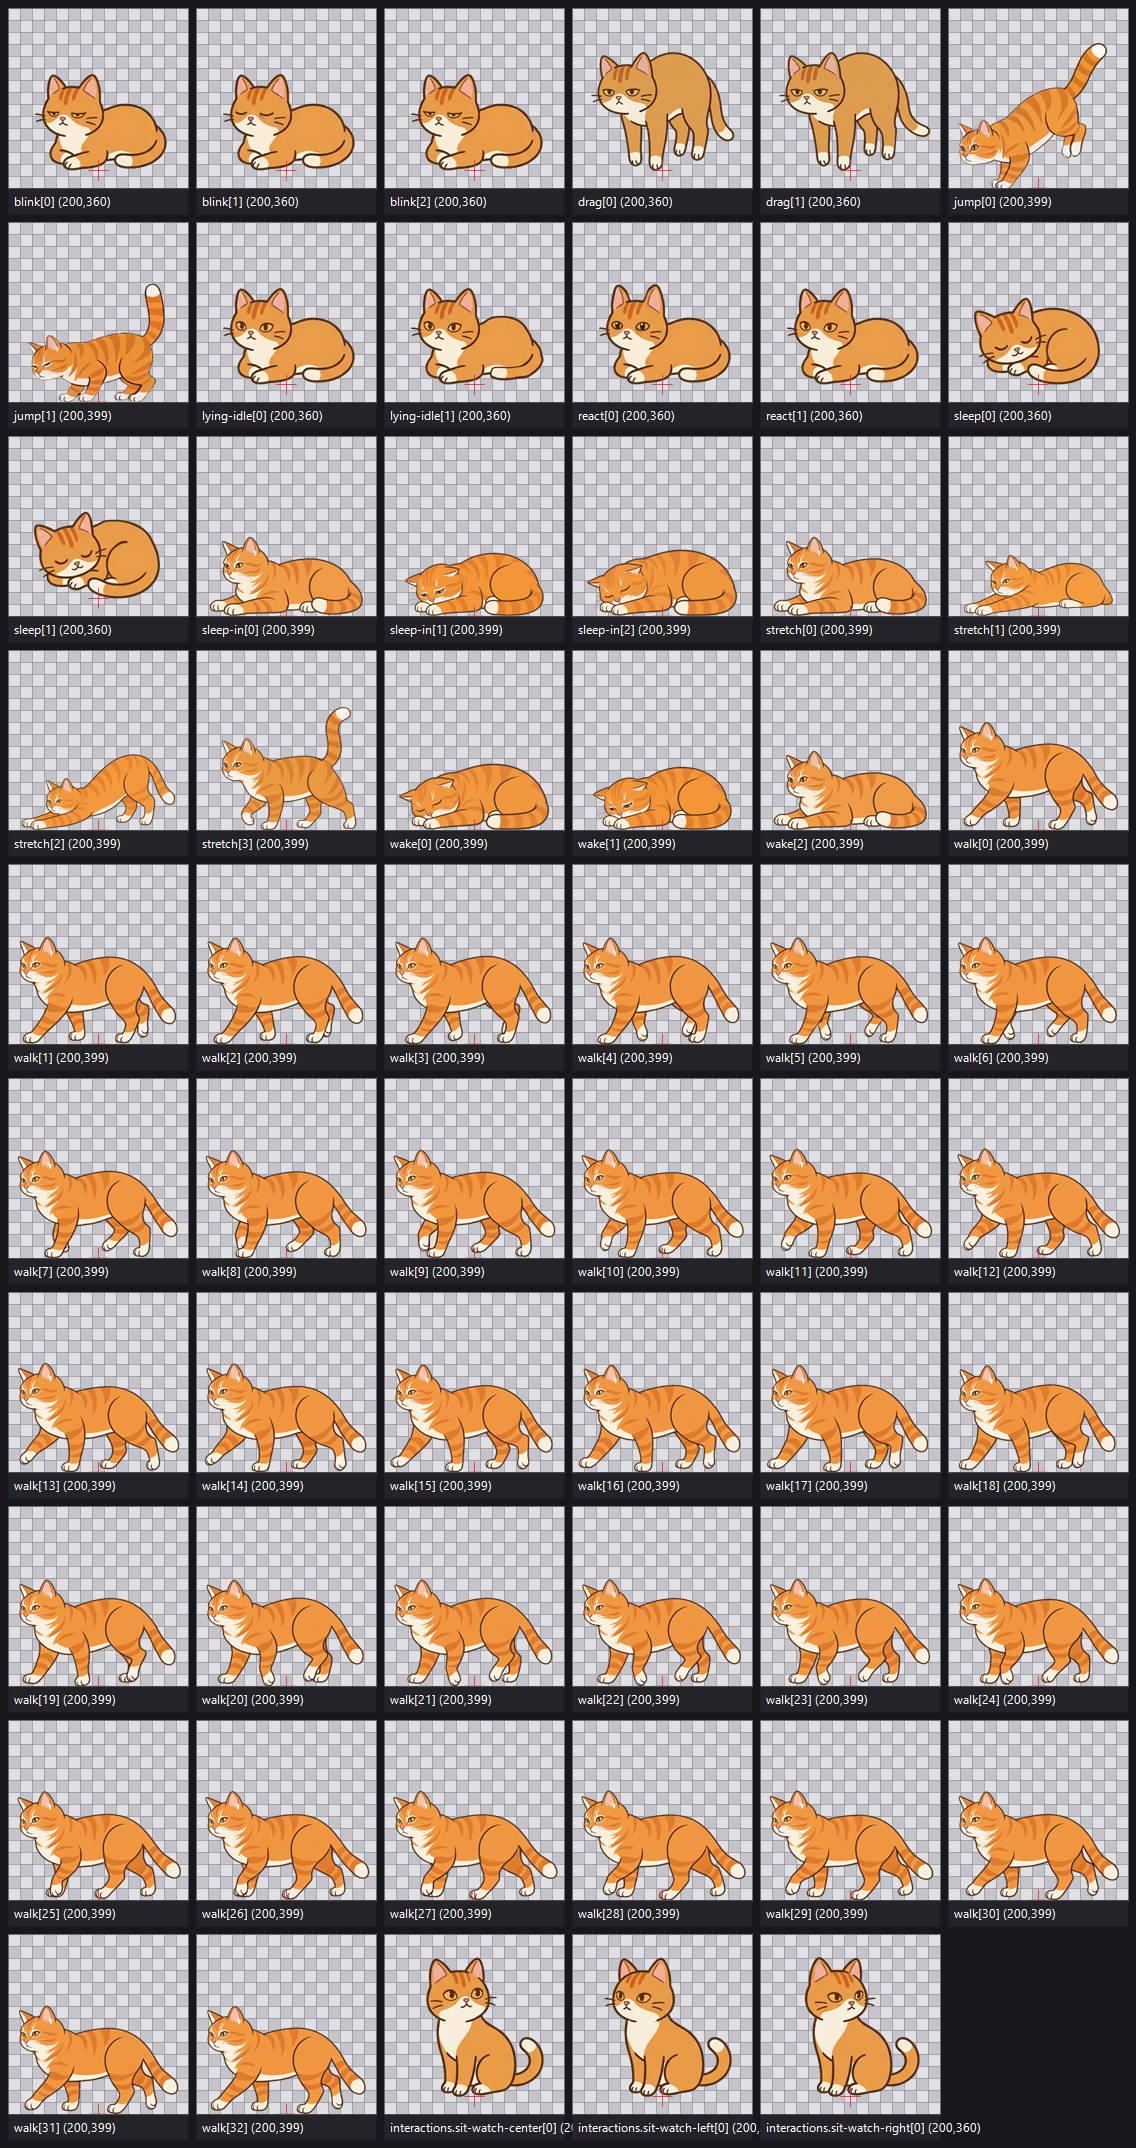
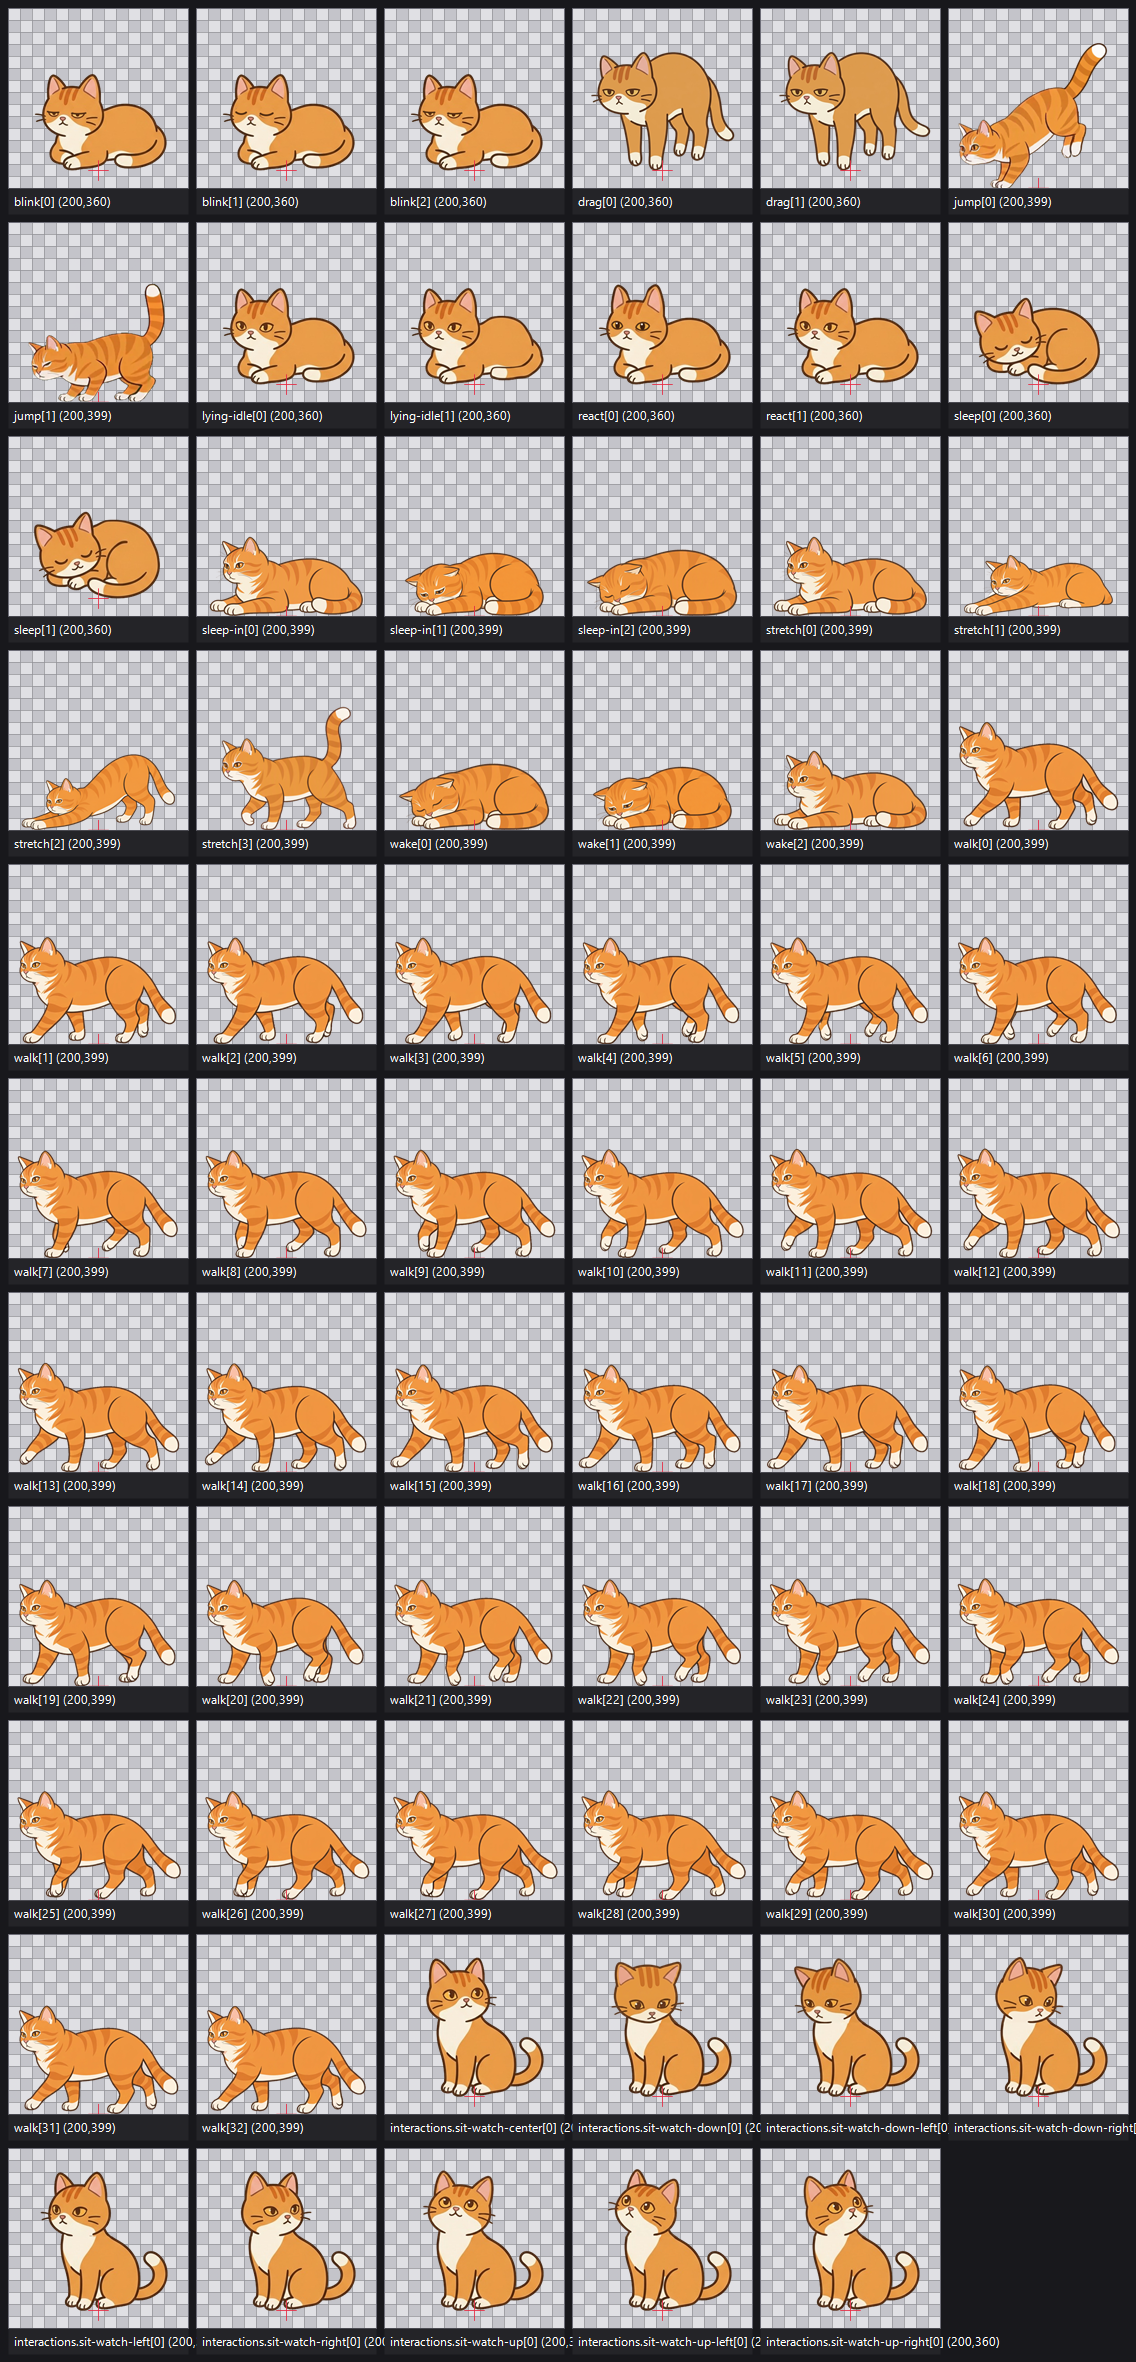
art(pet): add 6 directional sit-watch frames for 9-way tracking
Generate and cut over the six vertical and diagonal sit-watch head-turn frames (up, up-right, down-right, down, down-left, up-left) built from the frozen #211 simplified storybook orange cat sitting master, with strict lower-body (y >= 198) pixel lock (100% diff=0, foot_dy=0 px) and updated 9-way QA review sheets.

Refs #226

diff --git a/test/JiuMi.Application.Tests/MyJiuMiPetPackManifestLoaderTests.cs b/test/JiuMi.Application.Tests/MyJiuMiPetPackManifestLoaderTests.cs
@@ -426,6 +426,7 @@ public sealed class MyJiuMiPetPackManifestLoaderTests
         Assert.Equal(new MyJiuMiPetPackCanvas(400, 400), manifest.Canvas);
         Assert.Equal(new MyJiuMiPetPackAnchor(200, 360), manifest.DefaultAnchor);
         Assert.True(manifest.SupportsSitWatch);
+        Assert.Equal(MyJiuMiSitWatchTier.NineWay, manifest.SitWatchTier);
 
         foreach (MyJiuMiState state in MyJiuMiPetPackManifest.CoreStates)
         {
@@ -443,6 +444,8 @@ public sealed class MyJiuMiPetPackManifestLoaderTests
 
         foreach (MyJiuMiSitWatchDirection direction in Enum.GetValues<MyJiuMiSitWatchDirection>())
         {
+            Assert.True(manifest.TryGetDeclaredSitWatchClip(direction, out MyJiuMiPetPackClip? declaredClip));
+            Assert.NotNull(declaredClip);
             Assert.True(manifest.TryGetSitWatchClip(direction, out MyJiuMiPetPackClip? sitClip));
             Assert.NotNull(sitClip);
             foreach (MyJiuMiPetPackFrame frame in sitClip.Frames)

diff --git a/docs/pet-video-prompts.md b/docs/pet-video-prompts.md
@@ -48,7 +48,7 @@ Using the provided 2D simplified Japanese picture-book orange cat as the EXACT c
 
 ### 3. L1 局部编辑模板（`lying-idle` / `blink` / `sleep` / `react` / `drag` / `interactions.sit-watch-*`）
 
-- **适用状态**：`lying-idle`、`blink`、`sleep`、`react`、`drag`，以及坐姿三向 `interactions.sit-watch-left` / `sit-watch-center` / `sit-watch-right`（#215 同步校验坐姿下身零偏移）。
+- **适用状态**：`lying-idle`、`blink`、`sleep`、`react`、`drag`，以及坐姿 9 向 `interactions.sit-watch-{center,up,up-right,right,down-right,down,down-left,left,up-left}`（#215 / #226 同步校验坐姿下身零偏移）。
 - **输入**：对应冻结母姿的切片原图（`docs/images/pet/v2-masters/raw/master-{lying,standing,sleeping,drag,sit-left,sit-center,sit-right}-raw.png`，`600×600` 纯 `#F4EFE9` 底）。
 - **后处理硬门**：仅抠出局部变化区域（眼/耳/尾/呼吸胸腹），用 **Alpha Mask 回贴到冻结的 `400×400` 母姿底图**，确保未编辑区域的躯干与外轮廓达到 `diff = 0`（通过 `tools/verify-pet-pack.ps1` 的 L1 `MinL1ExactMatchPct >= 80%` 门）。
 
